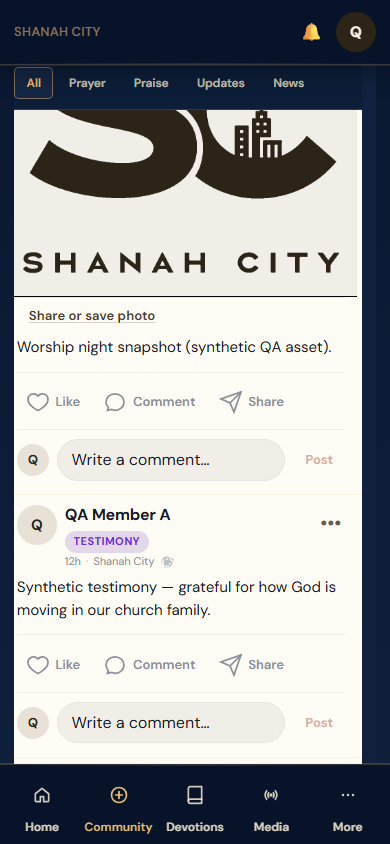
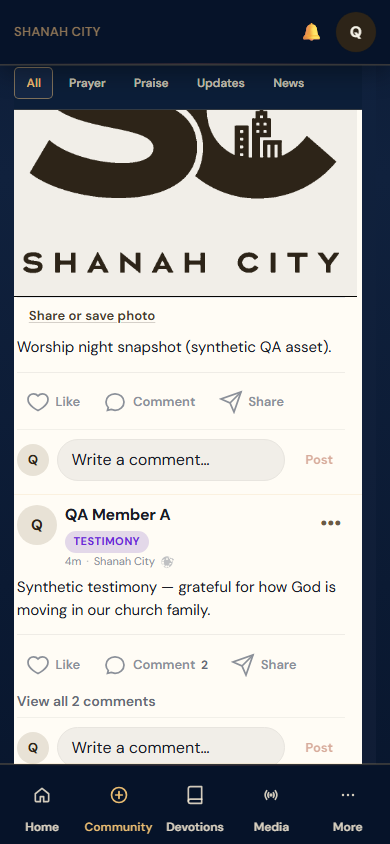
test(community): populated QA flow, cleanup, and interaction screenshots
Expand populated Playwright coverage for story navigation, composer keyboard and action rail, filters, comments/replies, and synthetic fixture seeding with non-logo QA media.

diff --git a/e2e/premium-v4-community-populated.spec.ts b/e2e/premium-v4-community-populated.spec.ts
@@ -29,12 +29,6 @@ function attachPopulatedErrorCollectors(page: Page) {
   return { pageErrors, consoleErrors };
 }
 
-/**
- * Opt-in validation with approved, synthetic staging data only.
- * DO NOT use real member credentials or capture private member information.
- * The test deliberately fails on empty data: an empty guest feed is NOT proof
- * that the populated Community and Stories design works.
- */
 const dir = path.join(process.cwd(), "docs/premium-v4-community-screenshots");
 const enabled = process.env.PLAYWRIGHT_COMMUNITY_SAFE_FIXTURES === "1";
 test.skip(!enabled, "Requires a staging test member and approved synthetic stories/posts");
@@ -57,52 +51,104 @@ for (const vp of [
     await expect.poll(async () => page.locator(".community-feed-posts .community-post-card").count()).toBeGreaterThanOrEqual(2);
     const imagePost = page.locator(".community-post-card img").first();
     await imagePost.scrollIntoViewIfNeeded();
-    await expect(imagePost).toBeAttached();
     await expect
       .poll(async () => imagePost.evaluate((img) => (img as HTMLImageElement).naturalWidth > 0))
       .toBeTruthy();
     await waitForImages(page, ".sc-v4-community", 0);
     await assertNoHorizontalOverflow(page);
     await assertOpaqueMobileChrome(page);
-    await assertNoRuntimeErrors(page, pageErrors, consoleErrors);
 
     fs.mkdirSync(dir, { recursive: true });
     await page.screenshot({
       path: path.join(dir, `community-stories-populated-${vp.tag}-viewport.png`),
-      clip: { x: 0, y: 0, width: vp.width, height: Math.min(vp.height, 220) },
+      clip: { x: 0, y: 0, width: vp.width, height: Math.min(vp.height, 230) },
     });
     await page.screenshot({
       path: path.join(dir, `community-populated-${vp.tag}-viewport.png`),
     });
+
+    const composerActions = page.locator(".community-composer-actions");
+    await composerActions.evaluate((el) => {
+      el.scrollLeft = Math.min(260, el.scrollWidth);
+    });
+    await page.waitForTimeout(150);
+    await assertNoHorizontalOverflow(page);
     await page.screenshot({
-      path: path.join(dir, `community-populated-${vp.tag}-full.png`),
-      fullPage: true,
+      path: path.join(dir, `community-composer-actions-${vp.tag}-viewport.png`),
+    });
+    await composerActions.evaluate((el) => {
+      el.scrollLeft = 0;
     });
 
-    // Open the actual member composer UI without submitting a post.
+    await page.getByRole("tab", { name: /^Praise$/i }).click();
+    await page.waitForTimeout(200);
+    await assertNoHorizontalOverflow(page);
+    await page.screenshot({
+      path: path.join(dir, `community-filter-selected-${vp.tag}-viewport.png`),
+    });
+
+    const filterRail = page.locator(".community-feed-tabs");
+    await filterRail.evaluate((el) => {
+      el.scrollLeft = Math.min(160, el.scrollWidth);
+    });
+    await page.waitForTimeout(150);
+    await page.screenshot({
+      path: path.join(dir, `community-filter-tabs-populated-${vp.tag}-viewport.png`),
+    });
+
+    await page.evaluate(() => window.scrollTo({ top: 720, behavior: "instant" }));
+    await page.waitForTimeout(200);
+    await assertOpaqueMobileChrome(page);
+    await page.screenshot({
+      path: path.join(dir, `community-populated-${vp.tag}-scrolled.png`),
+    });
+    await page.evaluate(() => window.scrollTo(0, 0));
+
     const trigger = page.locator(".community-composer-trigger").first();
-    await expect(trigger).toBeVisible();
     await trigger.click();
-    await expect(page.getByRole("dialog", { name: "Create post" })).toBeVisible();
+    const dialog = page.getByRole("dialog", { name: "Create post" });
+    await expect(dialog).toBeVisible();
     await page.screenshot({
       path: path.join(dir, `community-composer-${vp.tag}-viewport.png`),
     });
-    await page.keyboard.press("Escape");
+    const composerField = dialog.locator("textarea").first();
+    await composerField.click();
+    await composerField.fill("Synthetic QA draft — not submitted.");
     await page.waitForTimeout(200);
+    await page.screenshot({
+      path: path.join(dir, `community-composer-keyboard-${vp.tag}-viewport.png`),
+    });
+    await dialog.getByRole("button", { name: /Close composer/i }).click();
+    await expect(dialog).toBeHidden({ timeout: 15_000 });
 
     const storyRing = page.locator(".community-story-ring-unseen, .community-story-ring-seen").first();
     await storyRing.click();
-    await expect(page.locator(".community-story-viewer")).toBeVisible({ timeout: 30_000 });
+    const viewer = page.locator(".community-story-viewer");
+    await expect(viewer).toBeVisible({ timeout: 30_000 });
     await page.screenshot({
       path: path.join(dir, `community-story-viewer-${vp.tag}-viewport.png`),
     });
+    const nextStory = page.getByRole("button", { name: "Next story" });
+    if (await nextStory.isVisible().catch(() => false)) {
+      await nextStory.click();
+      await page.waitForTimeout(250);
+      await page.screenshot({
+        path: path.join(dir, `community-story-viewer-slide-${vp.tag}-viewport.png`),
+      });
+    }
     await page.keyboard.press("Escape");
-    await expect(page.locator(".community-story-viewer")).toBeHidden({ timeout: 15_000 });
+    await expect(viewer).toBeHidden({ timeout: 15_000 });
+
+    const likeBtn = page.locator(".community-feed-posts .community-post-card").first().getByRole("button", { name: /^Like$/i });
+    if (await likeBtn.isVisible().catch(() => false)) {
+      await likeBtn.click();
+      await page.waitForTimeout(150);
+    }
 
     const commentControl = page
       .locator(".community-feed-posts .community-post-card")
       .first()
-      .getByRole("button", { name: /comment/i });
+      .getByRole("button", { name: /^Comment$/i });
     await commentControl.click();
     await expect(page.getByRole("dialog").filter({ hasText: /comment/i })).toBeVisible({
       timeout: 30_000,
@@ -110,24 +156,17 @@ for (const vp of [
     await page.screenshot({
       path: path.join(dir, `community-comments-${vp.tag}-viewport.png`),
     });
+    const replyToggle = page.getByRole("button", { name: /reply/i }).first();
+    if (await replyToggle.isVisible().catch(() => false)) {
+      await replyToggle.click();
+      await page.waitForTimeout(150);
+    }
+    await page.screenshot({
+      path: path.join(dir, `community-replies-${vp.tag}-viewport.png`),
+    });
     await page.keyboard.press("Escape");
 
-    const filterRail = page.locator(".community-feed-tabs");
-    await filterRail.evaluate((el) => {
-      el.scrollLeft = Math.min(140, el.scrollWidth);
-    });
-    await page.waitForTimeout(150);
-    await page.screenshot({
-      path: path.join(dir, `community-filter-tabs-populated-${vp.tag}-viewport.png`),
-    });
-
-    await page.evaluate(() => window.scrollTo({ top: 900, behavior: "instant" }));
-    await page.waitForTimeout(200);
     await assertNoHorizontalOverflow(page);
-    await assertOpaqueMobileChrome(page);
-    await page.screenshot({
-      path: path.join(dir, `community-populated-${vp.tag}-scrolled.png`),
-    });
     await assertNoRuntimeErrors(page, pageErrors, consoleErrors);
   });
 }

diff --git a/scripts/premium-v4-community-qa-cleanup.ts b/scripts/premium-v4-community-qa-cleanup.ts
@@ -1,0 +1,59 @@
+import { prisma } from "../src/lib/db";
+
+if (process.env.PREMIUM_V4_QA_CLEANUP_CONFIRMED !== "YES") {
+  throw new Error(
+    "Refusing cleanup: set PREMIUM_V4_QA_CLEANUP_CONFIRMED=YES after verifying DATABASE_URL is disposable QA/staging.",
+  );
+}
+
+if (!process.env.DATABASE_URL?.trim()) {
+  throw new Error("DATABASE_URL is required for QA cleanup.");
+}
+
+async function main() {
+  const qaUsers = await prisma.user.findMany({
+    where: { email: { endsWith: "@shanah-city-qa.invalid" } },
+    select: { id: true, email: true },
+  });
+  if (qaUsers.length === 0) {
+    console.log("No @shanah-city-qa.invalid users found.");
+    return;
+  }
+  console.log(`Found ${qaUsers.length} synthetic QA user(s).`);
+  const ids = qaUsers.map((u) => u.id);
+
+  const syntheticPosts = await prisma.communityPost.findMany({
+    where: { OR: [{ authorId: { in: ids } }, { content: { contains: "Synthetic" } }] },
+    select: { id: true },
+  });
+  const postIds = syntheticPosts.map((p) => p.id);
+  if (postIds.length > 0) {
+    await prisma.communityPostReaction.deleteMany({ where: { postId: { in: postIds } } });
+    await prisma.communityPost.deleteMany({ where: { id: { in: postIds } } });
+  }
+
+  const statuses = await prisma.communityStatus.findMany({
+    where: { authorId: { in: ids } },
+    select: { id: true },
+  });
+  const statusIds = statuses.map((s) => s.id);
+  if (statusIds.length > 0) {
+    await prisma.communityStatusReply.deleteMany({ where: { statusId: { in: statusIds } } });
+    await prisma.communityStatusReaction.deleteMany({ where: { statusId: { in: statusIds } } });
+    await prisma.communityStatus.deleteMany({ where: { id: { in: statusIds } } });
+  }
+
+  await prisma.pushSubscription.deleteMany({ where: { userId: { in: ids } } });
+  await prisma.session.deleteMany({ where: { userId: { in: ids } } });
+  await prisma.user.deleteMany({ where: { id: { in: ids } } });
+  console.log(`Removed ${ids.length} QA users and related Community records.`);
+}
+
+main()
+  .catch((error) => {
+    console.error(error);
+    process.exit(1);
+  })
+  .finally(async () => {
+    await prisma.$disconnect();
+  });

diff --git a/docs/premium-v4-community-screenshots/POPULATED_QA.md b/docs/premium-v4-community-screenshots/POPULATED_QA.md
@@ -36,6 +36,14 @@ PLAYWRIGHT_BASE_URL='http://127.0.0.1:3000' \
 npx playwright test -c playwright.premium-v4-community-populated.config.ts
 ```
 
-The test **fails deliberately** if the feed has fewer than two post cards, lacks a visible image, or has fewer than two story rings. It captures the signed-in Community viewport, full page and opened composer at 390×844 and 430×932. These results are additional evidence alongside the existing guest/empty screenshots, not a replacement.
+The test **fails deliberately** if the feed has fewer than two post cards, lacks a visible image, or has fewer than two story rings. It captures populated feed, stories row, composer (including focused field), story viewer slides, comments/replies, filter selection, horizontal composer/filter rails, and scrolled chrome at 390×844 and 430×932.
+
+## Cleanup synthetic QA users
+
+After verifying screenshots, remove only `@shanah-city-qa.invalid` accounts from the **same disposable database**:
+
+```sh
+PREMIUM_V4_QA_CLEANUP_CONFIRMED=YES npx tsx scripts/premium-v4-community-qa-cleanup.ts
+```
 
 Save only **synthetic-data** screenshots in this PR. Screenshots must be manually reviewed for unintended private content before committing. Never commit login credentials.
